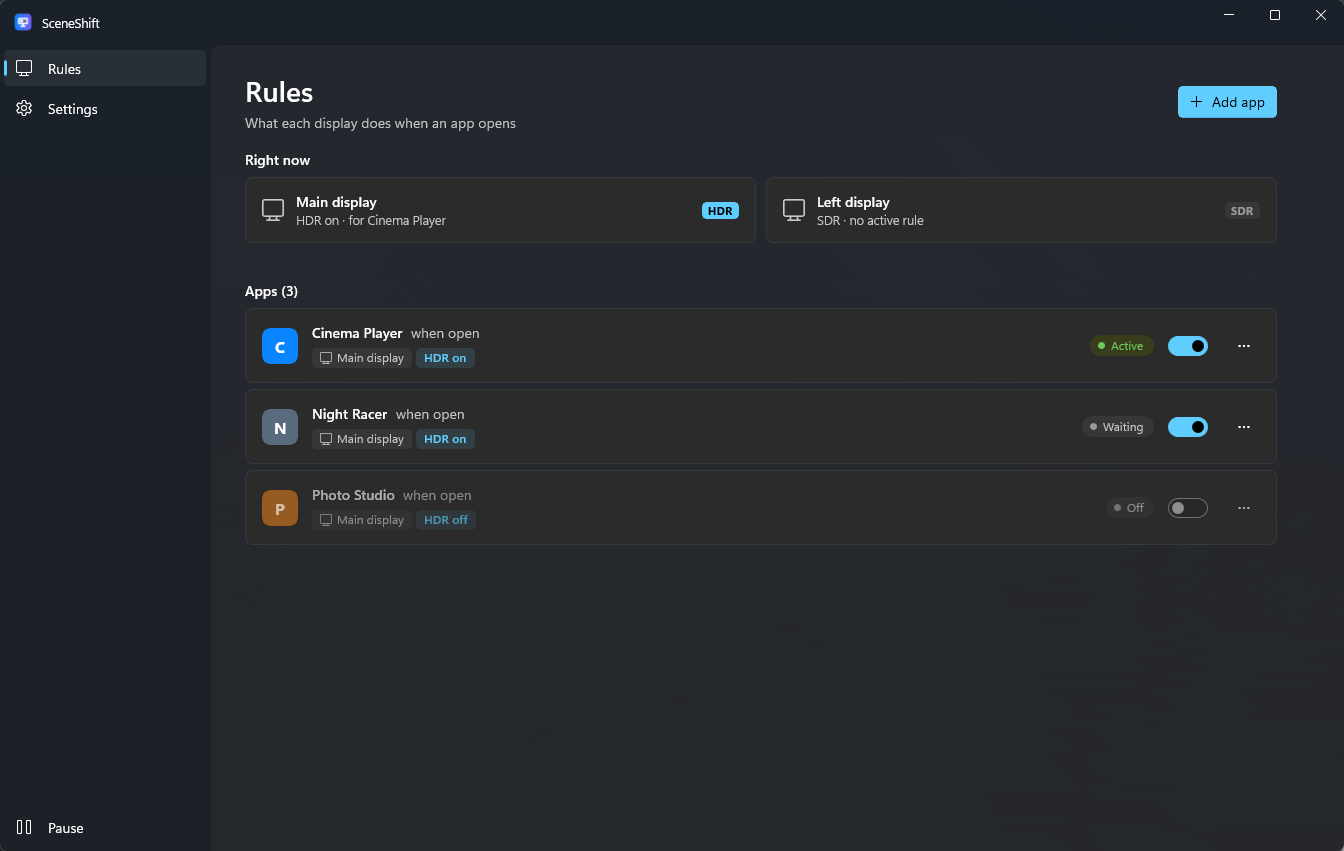
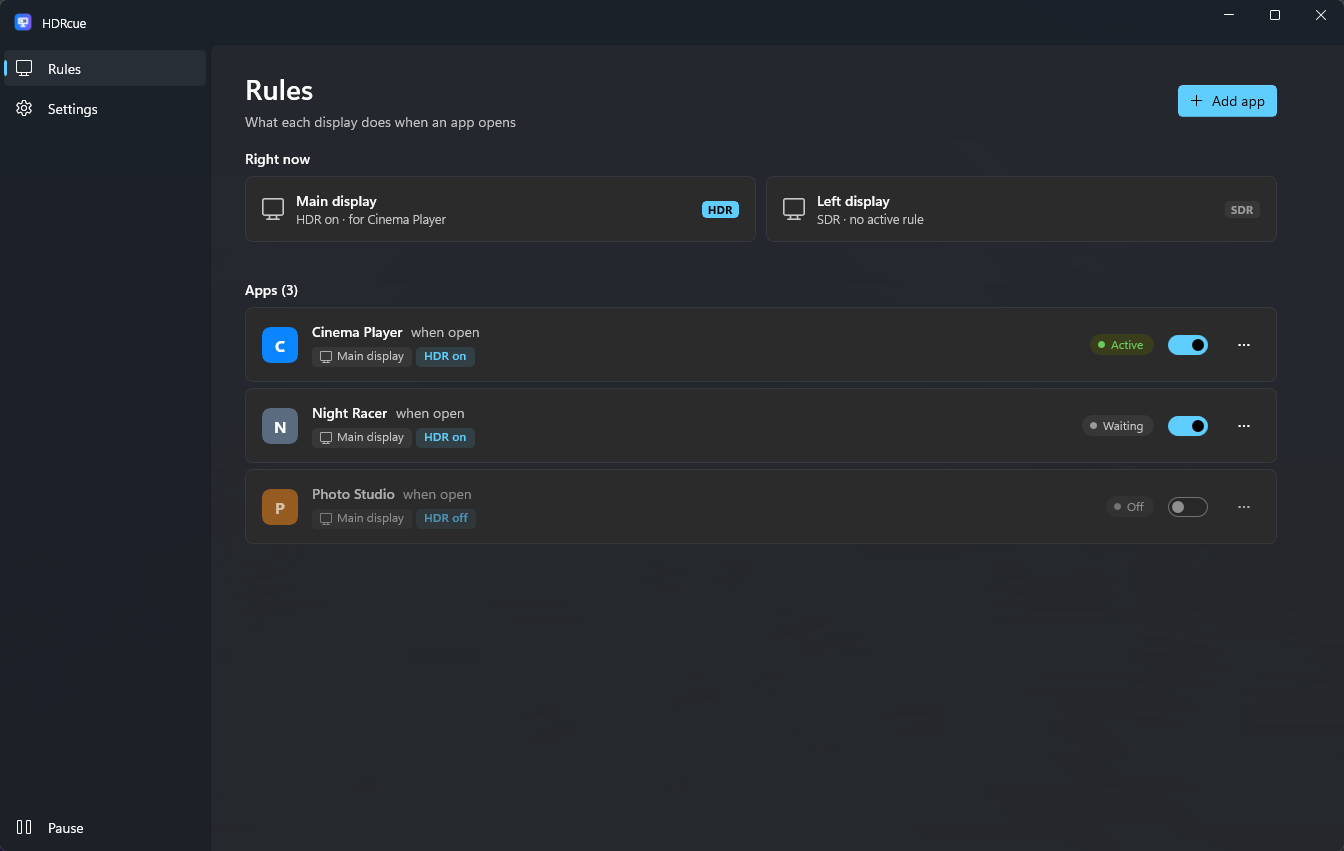
refactor: rename the app to HDRcue
Use the new name across the site, the demo, the issue forms and the screenshots. Links point to hdrcue.phu-space.com and PHUICMT/hdrcue-support.

diff --git a/index.html b/index.html
@@ -3,14 +3,14 @@
 <head>
   <meta charset="utf-8">
   <meta name="viewport" content="width=device-width, initial-scale=1">
-  <title>SceneShift</title>
-  <meta name="description" content="SceneShift turns HDR on while your movie player or game is open, and puts the display back when it closes.">
+  <title>HDRcue</title>
+  <meta name="description" content="HDRcue turns HDR on while your movie player or game is open, and puts the display back when it closes.">
   <link rel="icon" href="images/icon.png">
-  <link rel="stylesheet" href="site.css?v=8">
+  <link rel="stylesheet" href="site.css?v=9">
 </head>
 <body>
   <header class="top">
-    <a class="brand" href="./"><img src="images/icon.png" alt="" width="28" height="28">SceneShift</a>
+    <a class="brand" href="./"><img src="images/icon.png" alt="" width="28" height="28">HDRcue</a>
     <nav>
       <a href="#guide" data-i18n="nav.guide">Guide</a>
       <a href="#help" data-i18n="nav.help">Help</a>
@@ -30,7 +30,7 @@
     <section id="tour" class="tour">
       <h2 data-i18n="tour.title">Adding an app, step by step</h2>
       <div class="stage">
-        <iframe class="demo-frame" src="demo/?v=6" title="Demo of adding an app in SceneShift" loading="lazy"></iframe>
+        <iframe class="demo-frame" src="demo/?v=9" title="Demo of adding an app in HDRcue" loading="lazy"></iframe>
       </div>
     </section>
 
@@ -76,8 +76,8 @@
       <h2 data-i18n="feedback.title">Feedback</h2>
       <p data-i18n="feedback.text"></p>
       <div class="buttons">
-        <a class="button primary" href="https://github.com/PHUICMT/sceneshift-support/issues/new?template=problem.yml" data-i18n="feedback.bug">Report a problem</a>
-        <a class="button" href="https://github.com/PHUICMT/sceneshift-support/issues/new?template=idea.yml" data-i18n="feedback.idea">Suggest an idea</a>
+        <a class="button primary" href="https://github.com/PHUICMT/hdrcue-support/issues/new?template=problem.yml" data-i18n="feedback.bug">Report a problem</a>
+        <a class="button" href="https://github.com/PHUICMT/hdrcue-support/issues/new?template=idea.yml" data-i18n="feedback.idea">Suggest an idea</a>
       </div>
     </section>
   </main>
@@ -85,18 +85,18 @@
   <footer class="bottom">
     <div class="bottom-row">
       <div class="bottom-brand">
-        <a class="brand" href="./"><img src="images/icon.png" alt="" width="24" height="24">SceneShift</a>
+        <a class="brand" href="./"><img src="images/icon.png" alt="" width="24" height="24">HDRcue</a>
         <p data-i18n="footer.tagline">HDR for the apps you choose</p>
       </div>
       <nav class="bottom-links" aria-label="Footer">
         <a href="#guide" data-i18n="nav.guide">Guide</a>
         <a href="#help" data-i18n="nav.help">Help</a>
         <a href="privacy.html" data-i18n="nav.privacy">Privacy</a>
-        <a href="https://github.com/PHUICMT/sceneshift-support/issues/new?template=problem.yml" data-i18n="feedback.bug">Report a problem</a>
+        <a href="https://github.com/PHUICMT/hdrcue-support/issues/new?template=problem.yml" data-i18n="feedback.bug">Report a problem</a>
       </nav>
     </div>
     <p class="copyright" data-i18n="footer.copyright">&copy; 2026 PHUICMT</p>
   </footer>
-  <script src="site.js?v=7"></script>
+  <script src="site.js?v=9"></script>
 </body>
 </html>

diff --git a/privacy.html b/privacy.html
@@ -3,13 +3,13 @@
 <head>
   <meta charset="utf-8">
   <meta name="viewport" content="width=device-width, initial-scale=1">
-  <title>SceneShift privacy policy</title>
+  <title>HDRcue privacy policy</title>
   <link rel="icon" href="images/icon.png">
-  <link rel="stylesheet" href="site.css?v=8">
+  <link rel="stylesheet" href="site.css?v=9">
 </head>
 <body>
   <header class="top">
-    <a class="brand" href="./"><img src="images/icon.png" alt="" width="28" height="28">SceneShift</a>
+    <a class="brand" href="./"><img src="images/icon.png" alt="" width="28" height="28">HDRcue</a>
     <nav>
       <a href="./#guide" data-i18n="nav.guide">Guide</a>
       <a href="./#help" data-i18n="nav.help">Help</a>
@@ -33,12 +33,12 @@
 
     <h2 data-i18n="privacy.contact.title"></h2>
     <p>
-      <a href="https://github.com/PHUICMT/sceneshift-support/issues" data-i18n="privacy.contact"></a>
+      <a href="https://github.com/PHUICMT/hdrcue-support/issues" data-i18n="privacy.contact"></a>
     </p>
 
     <!-- The English text without JavaScript, for readers and checkers that do not run it. -->
     <noscript>
-      <p>SceneShift works entirely on your PC. It reads which apps are running, the state of
+      <p>HDRcue works entirely on your PC. It reads which apps are running, the state of
       your displays and the apps in your Start menu. It stores your settings in its own
       folder on your PC. It sends nothing: no internet connection, no telemetry.</p>
     </noscript>
@@ -47,18 +47,18 @@
   <footer class="bottom">
     <div class="bottom-row">
       <div class="bottom-brand">
-        <a class="brand" href="./"><img src="images/icon.png" alt="" width="24" height="24">SceneShift</a>
+        <a class="brand" href="./"><img src="images/icon.png" alt="" width="24" height="24">HDRcue</a>
         <p data-i18n="footer.tagline">HDR for the apps you choose</p>
       </div>
       <nav class="bottom-links" aria-label="Footer">
         <a href="./#guide" data-i18n="nav.guide">Guide</a>
         <a href="./#help" data-i18n="nav.help">Help</a>
         <a href="privacy.html" data-i18n="nav.privacy">Privacy</a>
-        <a href="https://github.com/PHUICMT/sceneshift-support/issues/new?template=problem.yml" data-i18n="feedback.bug">Report a problem</a>
+        <a href="https://github.com/PHUICMT/hdrcue-support/issues/new?template=problem.yml" data-i18n="feedback.bug">Report a problem</a>
       </nav>
     </div>
     <p class="copyright" data-i18n="footer.copyright">&copy; 2026 PHUICMT</p>
   </footer>
-  <script src="site.js?v=7"></script>
+  <script src="site.js?v=9"></script>
 </body>
 </html>

diff --git a/demo/index.html b/demo/index.html
@@ -3,10 +3,10 @@
 <head>
   <meta charset="utf-8">
   <meta name="viewport" content="width=device-width, initial-scale=1">
-  <title>SceneShift demo</title>
+  <title>HDRcue demo</title>
   <meta name="robots" content="noindex">
   <link rel="icon" href="../images/icon.png">
-  <link rel="stylesheet" href="demo.css?v=5">
+  <link rel="stylesheet" href="demo.css?v=9">
 </head>
 <body>
   <!-- The window is drawn for sighted visitors; the list below reads out the same steps. -->
@@ -24,7 +24,7 @@
     <p class="bubble" id="bubble" aria-hidden="true"><span class="bubble-number"></span><span class="bubble-text"></span></p>
   </div>
 
-  <script src="view.js?v=5"></script>
-  <script src="demo.js?v=5"></script>
+  <script src="view.js?v=9"></script>
+  <script src="demo.js?v=9"></script>
 </body>
 </html>

diff --git a/demo/view.js b/demo/view.js
@@ -1,10 +1,10 @@
-// The SceneShift window for the demo: its state, its markup and a small DOM patcher. The patcher
+// The HDRcue window for the demo: its state, its markup and a small DOM patcher. The patcher
 // keeps the nodes that stay, so CSS transitions run when a class changes, and inserts new nodes,
 // so their entrance animations run, the same way the app animates between states.
 const DemoView = (function () {
   const text = {
-    title: 'SceneShift',
-    addTitle: 'SceneShift · Add app',
+    title: 'HDRcue',
+    addTitle: 'HDRcue · Add app',
     rules: 'Rules',
     settings: 'Settings',
     pause: 'Pause',

diff --git a/demo/demo.css b/demo/demo.css
@@ -1,4 +1,4 @@
-/* The SceneShift window in its dark theme, laid out at 1344 x 850 like the app's own
+/* The HDRcue window in its dark theme, laid out at 1344 x 850 like the app's own
    screenshots and scaled as one piece to fit the frame. Colors, sizes and motion follow the
    app's design, so the demo looks and moves like the real window. */
 :root {

diff --git a/README.md b/README.md
@@ -1,14 +1,14 @@
-# SceneShift
+# HDRcue
 
-SceneShift switches HDR on or off for the apps you choose. Open your movie player and the
+HDRcue switches HDR on or off for the apps you choose. Open your movie player and the
 display turns HDR on. Close it and the display goes back to how it was.
 
-This repository holds SceneShift's website and takes feedback. The app's source code is not
+This repository holds HDRcue's website and takes feedback. The app's source code is not
 here.
 
-- Guide and common questions: https://phuicmt.github.io/sceneshift-support/
-- Privacy policy: https://phuicmt.github.io/sceneshift-support/privacy.html
-- Report a problem or suggest an idea: [open an issue](https://github.com/PHUICMT/sceneshift-support/issues/new/choose)
+- Guide and common questions: https://hdrcue.phu-space.com/
+- Privacy policy: https://hdrcue.phu-space.com/privacy.html
+- Report a problem or suggest an idea: [open an issue](https://github.com/PHUICMT/hdrcue-support/issues/new/choose)
 
 ## The website
 
